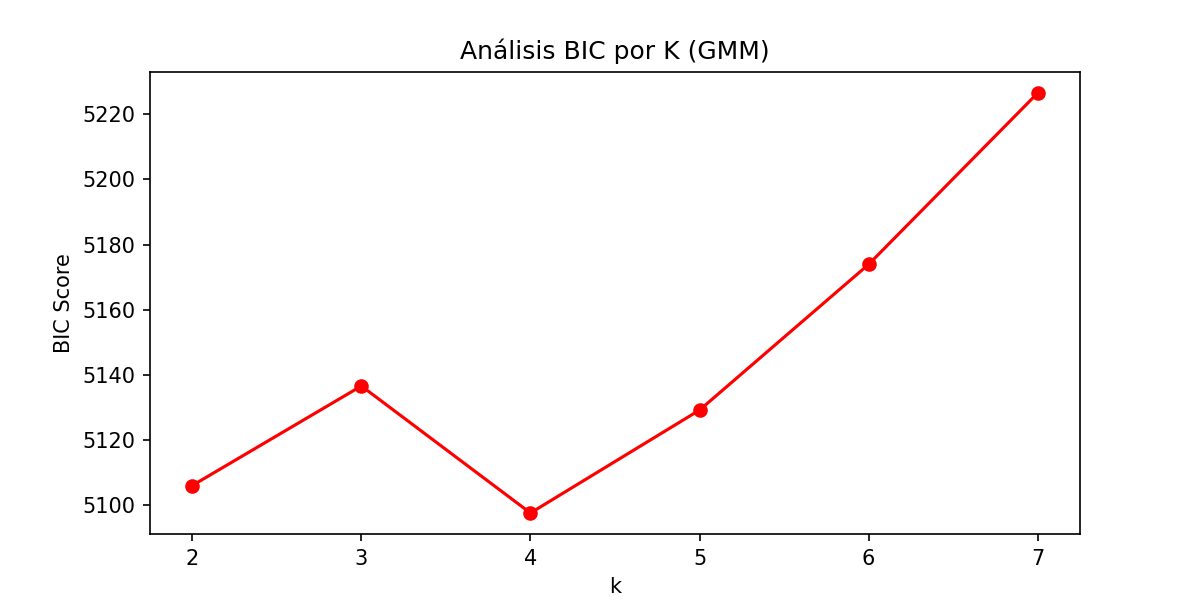
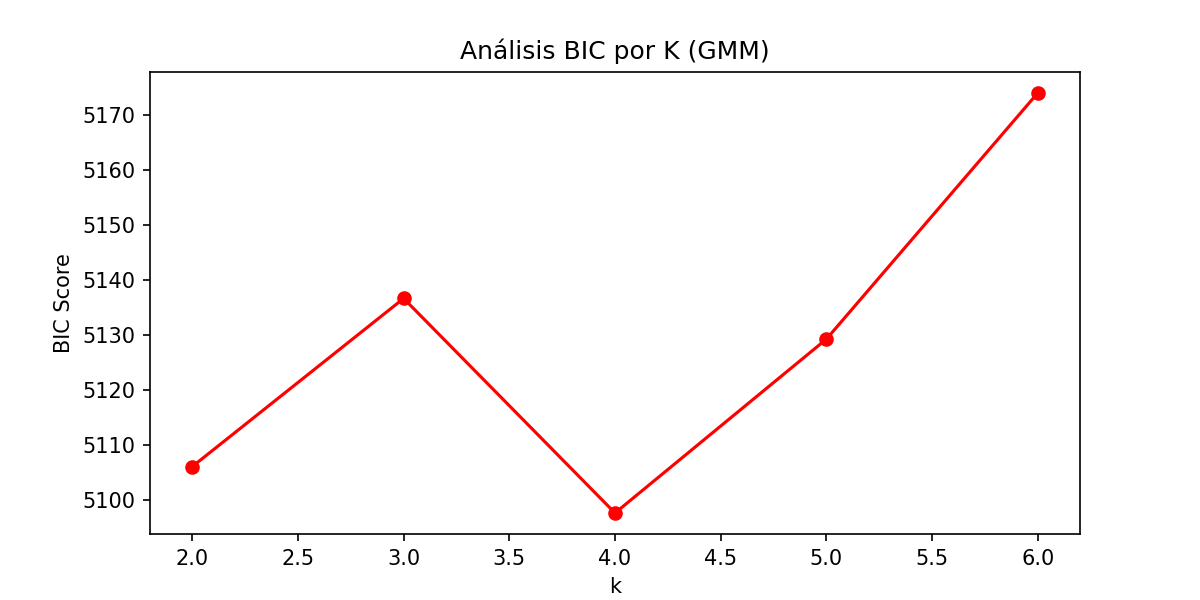
Feat: Ajustes complejidad media

diff --git a/src/analysis/stats_analyzer.py b/src/analysis/stats_analyzer.py
@@ -213,16 +213,17 @@ class StatsAnalyzer:
         risk_targets = ['Riesgo_Total', 'Score_Riesgo_Academico', 'Score_Riesgo_LMS', 'Score_Riesgo_Continuidad']
         
         correlations = {}
+        from statsmodels.stats.multitest import multipletests
+        
+        # Recolectar todos los p-valores para corrección múltiple
+        p_values_list = []
         for risk in risk_targets:
             if risk not in df_valid.columns: continue
             correlations[risk] = {}
             for ami in ami_features:
-                # Filtrar NaNs de manera pareada para evitar la propagación de NaNs
                 pair = df_valid[[risk, ami]].dropna()
                 if len(pair) > 2:
-                    # Correlación de Pearson (Lineal)
                     r_val, p_val = stats.pearsonr(pair[risk], pair[ami])
-                    # Spearman (No paramétrica)
                     rho, p_s = stats.spearmanr(pair[risk], pair[ami])
                 else:
                     r_val, p_val = np.nan, np.nan
@@ -232,6 +233,22 @@ class StatsAnalyzer:
                     'Pearson_r': float(r_val), 'P_Pearson': float(p_val),
                     'Spearman_rho': float(rho), 'P_Spearman': float(p_s)
                 }
+                if not np.isnan(p_val):
+                    p_values_list.append((risk, ami, p_val))
+                    
+        # Aplicar Benjamini-Hochberg
+        if p_values_list:
+            pvals = [p[2] for p in p_values_list]
+            _, p_adj, _, _ = multipletests(pvals, alpha=0.05, method='fdr_bh')
+            for (risk, ami, orig_p), adj_p in zip(p_values_list, p_adj):
+                correlations[risk][ami]['P_Pearson_BH'] = float(adj_p)
+                r_val = correlations[risk][ami]['Pearson_r']
+                if abs(r_val) < 0.10: eff = "Trivial"
+                elif abs(r_val) < 0.30: eff = "Pequeño"
+                elif abs(r_val) < 0.50: eff = "Moderado"
+                else: eff = "Grande"
+                correlations[risk][ami]['Effect_Size'] = eff
+
         return correlations
 
     def run_demographic_contrasts(self, df_scored: pd.DataFrame) -> dict:
@@ -679,18 +696,33 @@ class StatsAnalyzer:
         explainer = shap.TreeExplainer(model)
         shap_values = explainer.shap_values(X_train_feat)
         
-        # 3. Guardar el plot del Top 10
+        # 3. Guardar el plot del Top 10 y bar plot
         xai_dir = 'data/outputs/xai'
         os.makedirs(xai_dir, exist_ok=True)
+        
         plt.figure(figsize=(10, 8))
         shap.summary_plot(shap_values, X_train_feat, max_display=10, show=False)
         plot_path = f"{xai_dir}/shap_feature_items_top10.png"
         plt.savefig(plot_path, bbox_inches='tight', dpi=150)
         plt.close()
         
+        # Summary bar plot
+        plt.figure(figsize=(10, 8))
+        shap.summary_plot(shap_values, X_train_feat, max_display=10, plot_type="bar", show=False)
+        plt.savefig(f"{xai_dir}/shap_summary_bar.png", bbox_inches='tight', dpi=150)
+        plt.close()
+        
         # 4. Extraer ranking
         mean_shap = np.abs(shap_values).mean(axis=0)
         ranking = sorted(zip(X_train_feat.columns, mean_shap), key=lambda x: x[1], reverse=True)
+        
+        # 5. Dependencia para los top 3
+        top_3 = [x[0] for x in ranking[:3]]
+        for col in top_3:
+            plt.figure(figsize=(8, 6))
+            shap.dependence_plot(col, shap_values, X_train_feat, show=False)
+            plt.savefig(f"{xai_dir}/shap_dependence_{col}.png", bbox_inches='tight', dpi=150)
+            plt.close()
         
         return {
             'status': 'success',
@@ -698,16 +730,10 @@ class StatsAnalyzer:
             'top_items': ranking[:10]
         }
 
-    def run_logistic_cv(self, df_scored: pd.DataFrame, k: int = 10) -> dict:
+    def run_repeated_cv(self, df_scored: pd.DataFrame, model_type: str = 'logistic') -> dict:
         """
-        [HC-05] Validación cruzada estratificada (Stratified k-Fold) del modelo logístico.
-        Estima el AUC-ROC generalizable (media ± std) sobre todos los datos válidos,
-        resolviendo el sesgo del split único train/test.
-
-        Parámetros
-        ----------
-        k : int
-            Número de pliegues (default=10, estándar doctoral).
+        [HC-05] Validación cruzada RepeatedStratifiedKFold (5 folds x 10 repeticiones).
+        Aplica para Logit o RandomForest.
         """
         if 'Flag_Inconsistencia' in df_scored.columns:
             df_valid = df_scored[df_scored['Flag_Inconsistencia'] == False].copy()
@@ -718,21 +744,29 @@ class StatsAnalyzer:
         X = df_valid[features].dropna()
         y = df_valid.loc[X.index, 'Riesgo_Total'].astype(int)
 
-        # Escalar DENTRO de cada fold para evitar data-leakage
         from sklearn.pipeline import Pipeline
         from sklearn.preprocessing import StandardScaler as SS
         from sklearn.linear_model import LogisticRegression as LR
+        from sklearn.ensemble import GradientBoostingClassifier as GB
+        from sklearn.model_selection import RepeatedStratifiedKFold
+
+        if model_type == 'rf' or model_type == 'gradient_boosting':
+            clf = GB(random_state=42)
+        else:
+            clf = LR(class_weight='balanced', random_state=42, max_iter=500)
 
         pipe = Pipeline([
             ('scaler', SS()),
-            ('logit', LR(class_weight='balanced', random_state=42, max_iter=500))
+            ('clf', clf)
         ])
 
-        skf = StratifiedKFold(n_splits=k, shuffle=True, random_state=42)
+        rskf = RepeatedStratifiedKFold(n_splits=5, n_repeats=10, random_state=42)
 
-        auc_scores = cross_val_score(pipe, X, y, cv=skf, scoring='roc_auc')
-        acc_scores = cross_val_score(pipe, X, y, cv=skf, scoring='accuracy')
-        f1_scores  = cross_val_score(pipe, X, y, cv=skf, scoring='f1')
+        auc_scores = cross_val_score(pipe, X, y, cv=rskf, scoring='roc_auc')
+        acc_scores = cross_val_score(pipe, X, y, cv=rskf, scoring='accuracy')
+        f1_scores  = cross_val_score(pipe, X, y, cv=rskf, scoring='f1')
+        from sklearn.metrics import make_scorer, recall_score
+        rec_scores = cross_val_score(pipe, X, y, cv=rskf, scoring=make_scorer(recall_score))
 
         interpretation = (
             "AUC generalizable robusta" if auc_scores.mean() >= 0.75
@@ -740,7 +774,6 @@ class StatsAnalyzer:
         )
 
         return {
-            'k_folds': k,
             'n_samples': len(y),
             'n_positive': int(y.sum()),
             'auc_scores': auc_scores.tolist(),
@@ -754,6 +787,8 @@ class StatsAnalyzer:
             'accuracy_std': float(acc_scores.std()),
             'f1_mean': float(f1_scores.mean()),
             'f1_std': float(f1_scores.std()),
+            'recall_mean': float(rec_scores.mean()),
+            'recall_std': float(rec_scores.std()),
             'interpretation': interpretation
         }
 

diff --git a/main.py b/main.py
@@ -263,11 +263,13 @@ def main():
         interaction_res = analyzer.run_interaction_analysis(df_final)
         res_assumptions = analyzer.run_logit_assumption_checks(df_final)  # [HI-04]
         res_logit = analyzer.run_logistic_regression(X_train, X_test, y_train, y_test)
-        res_cv    = analyzer.run_logistic_cv(df_final)                 # [HC-05] k-Fold CV
+        res_cv    = analyzer.run_repeated_cv(df_final, model_type='logistic') # [HC-05] k-Fold CV repetida
         
+    res_rf_cv = None
     if risk_model_type in ["rf", "tree", "both"]:
         print("   -> Ejecutando Modelo No Lineal (Random Forest / Gradient Boosting)...")
         res_rf = analyzer.run_random_forest(X_train, X_test, y_train, y_test)
+        res_rf_cv = analyzer.run_repeated_cv(df_final, model_type='rf')
 
 
     # --- [5] Clustering y XAI (Perfilamiento) ---
@@ -298,13 +300,23 @@ def main():
     
     n_raw_val = len(df_raw) if 'df_raw' in locals() else len(df_final)
     n_final_val = len(X_train) + len(X_test)
+    
+    exclusion_details = {}
+    if 'loader' in locals() and hasattr(loader, 'exclusion_stats'):
+        exclusion_details = loader.exclusion_stats
+        exclusion_details['preproc_dropped'] = exclusion_details.get('no_consent', 0) + exclusion_details.get('target_invalid', 0)
+    
+    n_target_valid = exclusion_details.get('valid_initial', n_raw_val)
+    n_excluded = integrator.excluded_by_coherence if hasattr(integrator, 'excluded_by_coherence') else (n_raw_val - n_final_val)
+
     validator.log_data_flow(
-        n_raw=n_raw_val,
-        n_target_valid=n_raw_val,
-        n_excluded=n_raw_val - n_final_val,
+        n_raw=exclusion_details.get('raw', n_raw_val),
+        n_target_valid=n_target_valid,
+        n_excluded=n_excluded,
         n_final=n_final_val,
         n_train=len(X_train),
-        n_test=len(X_test)
+        n_test=len(X_test),
+        exclusion_details=exclusion_details
     )
     
     td = TargetDefinition(
@@ -462,7 +474,7 @@ def main():
     for risk_dim, ami_corrs in biv.items():
         details += f"   - Dimensión Riesgo: {risk_dim}\n"
         for ami_feat, v in ami_corrs.items():
-            details += f"     * {ami_feat:20}: Pearson_r={v['Pearson_r']:+.3f} ({format_p(v['P_Pearson'])}) | Spearman_rho={v['Spearman_rho']:+.3f}\n"
+            details += f"     * {ami_feat:20}: Pearson_r={v['Pearson_r']:+.3f} ({format_p(v.get('P_Pearson_BH', v['P_Pearson']))} BH) | Spearman_rho={v['Spearman_rho']:+.3f} | Efecto: {v.get('Effect_Size', 'N/A')}\n"
 
     if res_logit:
         details += "\n5. MODEL CONFIGURATION (REGRESIÓN LOGÍSTICA):\n"
@@ -525,6 +537,14 @@ def main():
         if rd_rf:
             details += f"   - F1-Score (Riesgo): {rd_rf.get('1', {}).get('f1-score', 0):.4f}\n"
             
+        if res_rf_cv:
+            details += "\n- VALIDACIÓN CRUZADA ESTRATIFICADA REPETIDA (Gradient Boosting) [HC-05]:\n"
+            details += f"   * N válidos: {res_rf_cv.get('n_samples', 0)} | Casos Riesgo=1: {res_rf_cv.get('n_positive', 0)}\n"
+            details += f"   * AUC-ROC Media: {res_rf_cv.get('auc_mean', 0):.4f} (± {res_rf_cv.get('auc_std', 0):.4f})\n"
+            ci_rf = res_rf_cv.get('auc_ci_95', [0, 0])
+            details += f"   * IC 95% AUC: [{ci_rf[0]:.4f}, {ci_rf[1]:.4f}]\n"
+            details += f"   * Recall Medio: {res_rf_cv.get('recall_mean', 0):.4f} (± {res_rf_cv.get('recall_std', 0):.4f})\n"
+            
         details += "\nNON-LINEARITY VALIDATION\n"
         details += "   [INFO] Comparación formal lineal vs no lineal ejecutada: NO\n"
         details += "   [WARN] No puede concluirse no linealidad únicamente por el rendimiento del ensamble\n"
@@ -552,11 +572,13 @@ def main():
     if 'ari_kmeans_gmm' in agreement:
         details += f"   - Consenso entre Modelos (Adjusted Rand Index): {agreement['ari_kmeans_gmm']:.4f}\n"
     
-    details += "   - Métricas de Estabilidad (K=3):\n"
+    details += "   - Métricas de Estabilidad:\n"
     try:
+        if 'optimal_k_sil' in cluster_val:
+            details += f"     * Óptimo K (Silhouette - KMeans): {cluster_val['optimal_k_sil']}\n"
+            details += f"     * Óptimo K (BIC - GMM):  {cluster_val['optimal_k_bic']}\n"
         idx_3 = cluster_val['k_range'].index(3)
-        details += f"     * Silhouette Score: {cluster_val['silhouette_scores'][idx_3]:.4f}\n"
-        details += f"     * BIC Score (GMM):  {cluster_val['bic_scores'][idx_3]:.4f}\n"
+        details += f"     * Eval K=3 -> Silhouette Score: {cluster_val['silhouette_scores'][idx_3]:.4f}, BIC: {cluster_val['bic_scores'][idx_3]:.4f}\n"
     except:
         pass
 

diff --git a/src/analysis/scientific_validator.py b/src/analysis/scientific_validator.py
@@ -70,18 +70,23 @@ class ScientificValidator:
         self._log_status("INFO", f"Git commit: {safe_git_value('rev-parse', 'HEAD')}")
         self._log_status("INFO", f"Git branch: {safe_git_value('rev-parse', '--abbrev-ref', 'HEAD')}")
 
-    def log_data_flow(self, n_raw: int, n_target_valid: int, n_excluded: int, n_final: int, n_train: int, n_test: int):
+    def log_data_flow(self, n_raw: int, n_target_valid: int, n_excluded: int, n_final: int, n_train: int, n_test: int, exclusion_details=None):
         self._print("\nDATA FLOW")
-        self._log_status("INFO", f"Registros originales:          {n_raw}")
-        self._log_status("INFO", f"Registros con target válido:   {n_target_valid}")
-        self._log_status("INFO", f"Casos excluidos:               {n_excluded}")
-        self._log_status("PASS", f"Muestra analítica final:       {n_final}")
-        self._log_status("INFO", f"Train:                         {n_train}")
-        self._log_status("INFO", f"Test:                          {n_test}")
+        self._log_status("INFO", f"Registros brutos del archivo:            {n_raw}")
+        if exclusion_details:
+            self._log_status("WARN", f"Registros descartados en preprocesamiento: {exclusion_details.get('preproc_dropped', 0)}")
+        self._log_status("INFO", f"Registros válidos iniciales:             {n_target_valid}")
+        self._log_status("WARN", f"Casos sospechosos excluidos:              {n_excluded}")
+        self._log_status("PASS", f"Muestra analítica final:                 {n_final}")
+        self._log_status("INFO", f"Registros de entrenamiento:              {n_train}")
+        self._log_status("INFO", f"Registros de prueba:                     {n_test}")
+        
+        if exclusion_details:
+            self._print("\nRazones de exclusión:")
+            self._log_status("INFO", f"Sin consentimiento: {exclusion_details.get('no_consent', 0)}")
+            self._log_status("INFO", f"Target/Virtual inválido: {exclusion_details.get('target_invalid', 0)}")
         
         errors = []
-        if n_target_valid > n_raw:
-            errors.append("n_target_valid no puede superar n_raw")
         if n_final != n_target_valid - n_excluded:
             errors.append("n_final debe ser n_target_valid - n_excluded")
         if n_train + n_test != n_final:
@@ -182,6 +187,10 @@ class ScientificValidator:
         majority.fit(X_train, y_train)
         maj_acc = accuracy_score(y_test, majority.predict(X_test))
         
+        stratified = DummyClassifier(strategy="stratified", random_state=42)
+        stratified.fit(X_train, y_train)
+        strat_acc = accuracy_score(y_test, stratified.predict(X_test))
+        
         from sklearn.linear_model import LogisticRegression
         logistic = LogisticRegression(max_iter=2000, class_weight="balanced", random_state=42)
         try:
@@ -191,8 +200,15 @@ class ScientificValidator:
             log_auc = 0.0
         
         self._log_status("INFO", f"Accuracy clase mayoritaria: {maj_acc:.4f}")
+        self._log_status("INFO", f"Accuracy dummy estratificado: {strat_acc:.4f}")
         self._log_status("INFO", f"AUC regresión logística: {log_auc:.4f}")
         self._log_status("INFO", f"AUC modelo evaluado: {model_roc:.4f}")
+        
+        diff_maj = model_roc - maj_acc # Aproximado, para mostrar
+        diff_log = model_roc - log_auc
+        
+        self._log_status("INFO", f"Mejora de AUC vs mayoritaria: {diff_maj:+.4f}")
+        self._log_status("INFO", f"Mejora de AUC vs logística: {diff_log:+.4f}")
         
         # Evaluamos mejora
         if model_roc > log_auc and model_roc > 0.5:

diff --git a/src/analysis/clustering_engine.py b/src/analysis/clustering_engine.py
@@ -1,4 +1,5 @@
 import pandas as pd
+import numpy as np
 from sklearn.preprocessing import StandardScaler
 from sklearn.cluster import KMeans, AgglomerativeClustering, DBSCAN
 from sklearn.mixture import GaussianMixture
@@ -66,7 +67,7 @@ class ClusteringEngine:
         
         # 1. Método del Codo
         distortions = []
-        K_range = range(2, 8)
+        K_range = range(2, 7)
         for k in K_range:
             km = KMeans(n_clusters=k, random_state=42, n_init=10)
             km.fit(X_scaled)
@@ -95,12 +96,14 @@ class ClusteringEngine:
         plt.savefig(f'{output_dir}/silhouette_plot.png', dpi=150)
         plt.close()
         
-        # 3. Análisis BIC (Bayesian Information Criterion) para GMM
+        # 3. Análisis BIC (Bayesian Information Criterion) y AIC para GMM
         bic_scores = []
+        aic_scores = []
         for k in K_range:
             gmm = GaussianMixture(n_components=k, random_state=42)
             gmm.fit(X_scaled)
             bic_scores.append(gmm.bic(X_scaled))
+            aic_scores.append(gmm.aic(X_scaled))
             
         plt.figure(figsize=(8, 4))
         plt.plot(K_range, bic_scores, 'ro-')
@@ -114,7 +117,10 @@ class ClusteringEngine:
             'k_range': list(K_range),
             'distortions': [float(d) for d in distortions],
             'silhouette_scores': [float(s) for s in sil_scores],
-            'bic_scores': [float(b) for b in bic_scores]
+            'bic_scores': [float(b) for b in bic_scores],
+            'aic_scores': [float(a) for a in aic_scores],
+            'optimal_k_bic': int(K_range[np.argmin(bic_scores)]),
+            'optimal_k_sil': int(K_range[np.argmax(sil_scores)])
         }
 
     def get_cluster_profiles(self, df_clustered: pd.DataFrame) -> dict:
